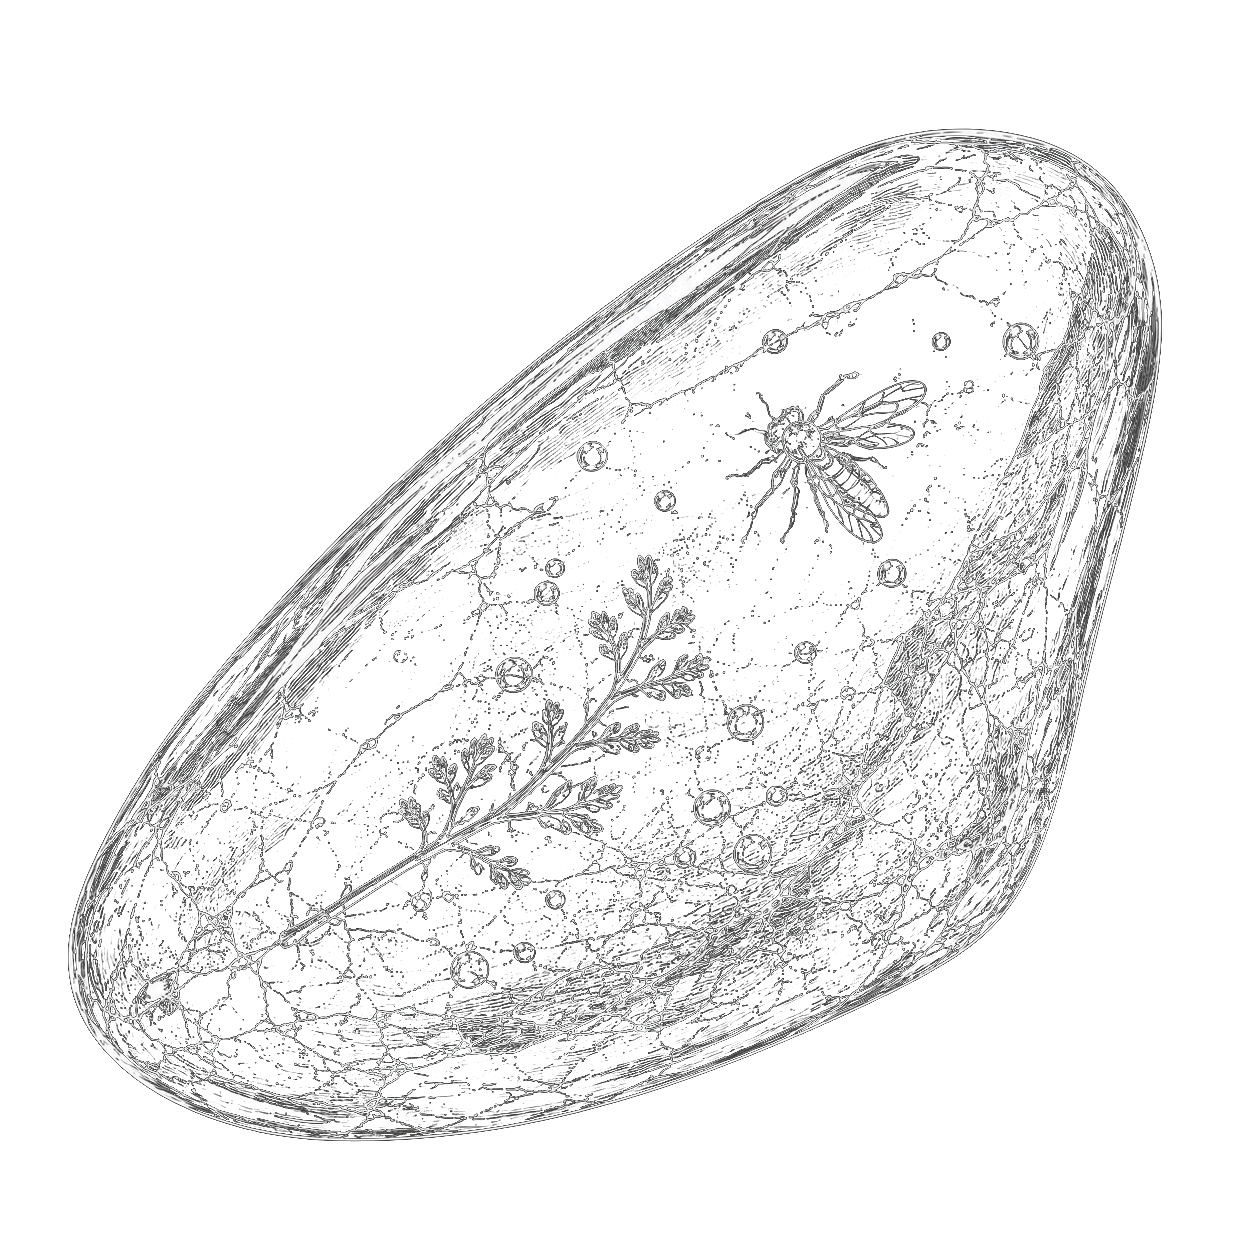
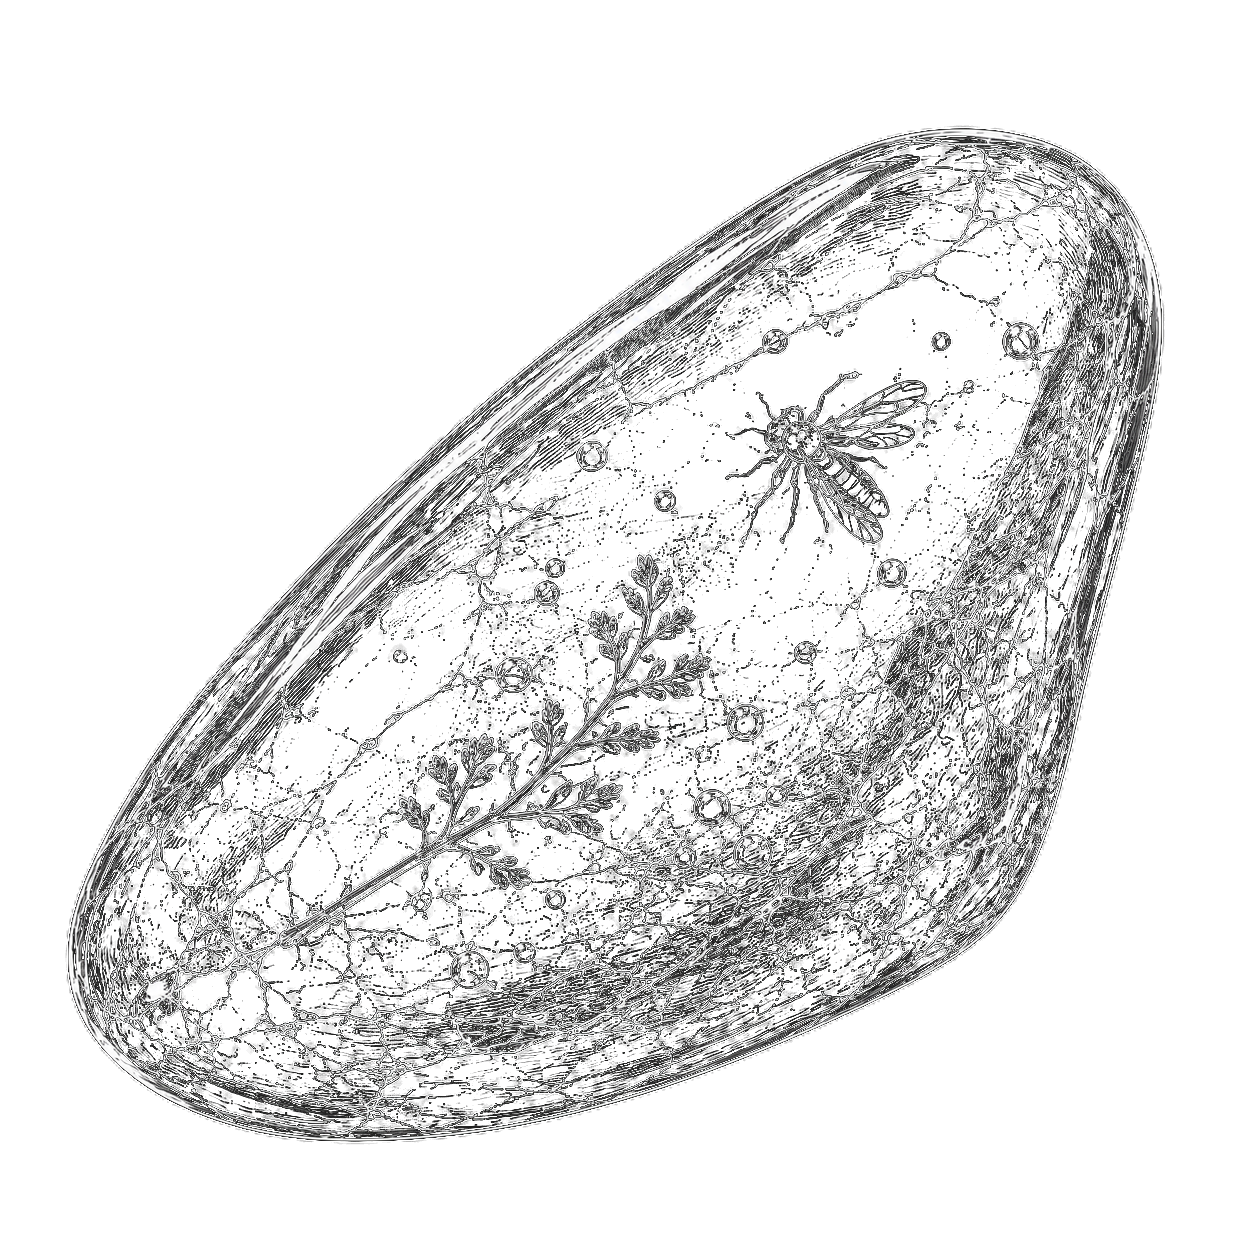
fix: stop etching breathing + add measured photo-to-etching alignment transform

Changed region(s): [[0.0622, 0.0933, 0.933, 0.933], [0.6531, 0.4665, 0.6842, 0.4976], [0.4976, 0.3732, 0.5287, 0.4043]]

diff --git a/src/app/page.tsx b/src/app/page.tsx
@@ -120,9 +120,9 @@ export default function Home() {
               onPointerLeave={() => setReveal((r) => ({ ...r, active: false }))}
             >
               {/* Reveal layer: masked to a small circle around the cursor.
-                  Inside the circle, the realistic amber photo shows; its black
-                  background uses screen-blend so anything outside the gem shape
-                  naturally stays unchanged (no fake square in the corners). */}
+                  The photo gets a static transform to compensate for the source-
+                  image misalignment between the etching and the photo (their gem
+                  shapes were drawn at slightly different angles + offsets). */}
               <div
                 className="absolute inset-0"
                 style={{
@@ -132,17 +132,30 @@ export default function Home() {
                   transition: "opacity 0.45s ease",
                 }}
               >
-                <Image
-                  src="/amber-real.png"
-                  alt=""
-                  fill
-                  sizes="(max-width: 768px) 80vw, 640px"
-                  style={{ objectFit: "contain" }}
-                />
+                <div
+                  className="absolute inset-0"
+                  style={{
+                    // measured offset to align photo's gem onto etching's gem:
+                    // photo is rotated ~6.65° less than the etching, and shifted
+                    // a few pixels — apply the inverse here.
+                    transform:
+                      "translate(-0.5%, 2.1%) rotate(6.65deg) scale(1.005)",
+                    transformOrigin: "center",
+                  }}
+                >
+                  <Image
+                    src="/amber-real.png"
+                    alt=""
+                    fill
+                    sizes="(max-width: 768px) 80vw, 640px"
+                    style={{ objectFit: "contain" }}
+                  />
+                </div>
               </div>
             </div>
 
-            {/* Amber resin specimen — half size now, sits behind the signature */}
+            {/* Amber resin specimen — STATIC now (was breathing, but that broke
+                alignment with the photo lens). Just a graceful fade-in on mount. */}
             <motion.div
               aria-hidden
               className="pointer-events-none absolute left-1/2 top-1/2"
@@ -153,35 +166,9 @@ export default function Home() {
                 marginTop: "calc(min(80%, 640px) / -2)",
                 zIndex: 0,
               }}
-              initial={{ opacity: 0, scale: 0.96, rotate: -1 }}
-              animate={{
-                opacity: [0, 0.82, 0.74, 0.82],
-                scale: [0.96, 1, 1.015, 1],
-                rotate: [-1, 0.6, -0.4, 0.6],
-              }}
-              transition={{
-                opacity: {
-                  duration: 9,
-                  delay: 0.3,
-                  repeat: Infinity,
-                  repeatType: "reverse",
-                  ease: "easeInOut",
-                },
-                scale: {
-                  duration: 11,
-                  delay: 0.3,
-                  repeat: Infinity,
-                  repeatType: "reverse",
-                  ease: "easeInOut",
-                },
-                rotate: {
-                  duration: 22,
-                  delay: 0.3,
-                  repeat: Infinity,
-                  repeatType: "reverse",
-                  ease: "easeInOut",
-                },
-              }}
+              initial={{ opacity: 0, scale: 0.97 }}
+              animate={{ opacity: 0.92, scale: 1 }}
+              transition={{ duration: 1.4, delay: 0.2, ease: "easeOut" }}
             >
               <Image
                 src="/amber-hero.png"
@@ -191,7 +178,6 @@ export default function Home() {
                 sizes="(max-width: 768px) 80vw, 640px"
                 style={{
                   objectFit: "contain",
-                  // alpha PNG already strips background; subtle warm tint to fit palette
                   filter:
                     "sepia(0.18) hue-rotate(-8deg) saturate(1.05) brightness(1.05)",
                 }}
